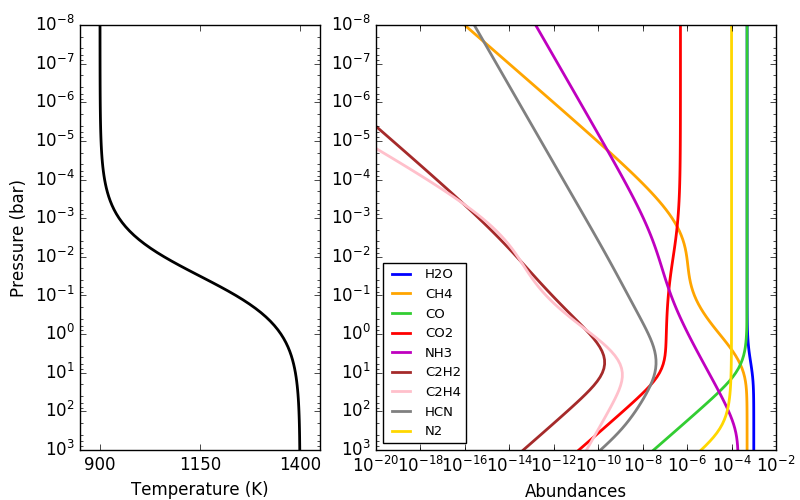
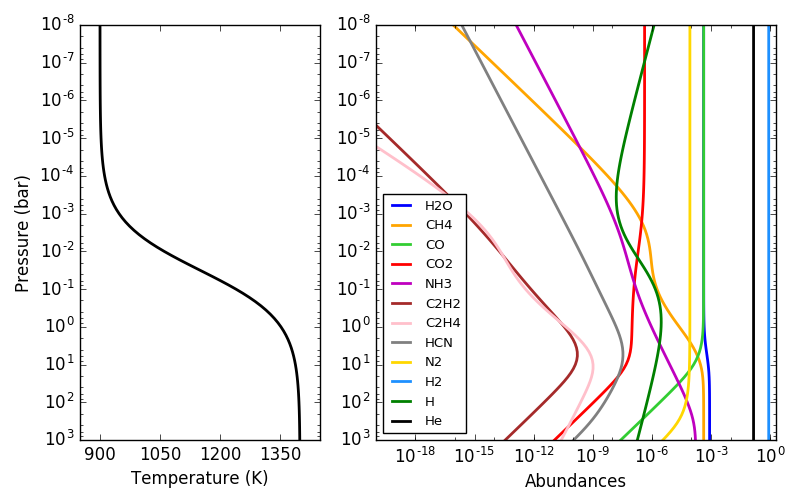
Updated README docs.

diff --git a/README.md b/README.md
@@ -1,7 +1,7 @@
 # rate
 Reliable Analytic Thermochemical Equilibrium
 
-This code computes thermochemical-equilibrium abundances for a H-C-N-O system with known pressure, temperature, and elemental abundances.  The output abundances are H2O, CH4, CO, CO2, NH3, C2H2, C2H4, HCN, and N2.
+This code computes thermochemical-equilibrium abundances for a H-C-N-O system with known pressure, temperature, and elemental abundances.  The output abundances are H2O, CH4, CO, CO2, NH3, C2H2, C2H4, HCN, and N2, H2, H, and He.
 
 These calculations are valid over:
 * pressures from 10<sup>-8</sup> to 10<sup>3</sup> bar,
@@ -40,19 +40,21 @@ import matplotlib.pyplot as plt
 import rate
 
 # Initialize object with solar composition:
-r = rate.Rate(C=2.5e-4, N=1.0e-4, O=5.0e-4)
+r = rate.Rate(C=2.5e-4, N=1.0e-4, O=5.0e-4, fHe=0.0851)
 
 # Define atmospheric profile:
 nlayers = 100
 press = np.logspace(-8, 3, nlayers)  # bars
-temp = np.tile(1400.0, nlayers)      # kelvin
+temp1 = np.tile(1400.0, nlayers)     # kelvin
 
 # Compute abundances:
-Q1 = r.solve(temp, press)
+Q1 = r.solve(temp1, press)
 
 # See results:
-label = "H2O", "CH4",  "CO",     "CO2", "NH3", "C2H2", "C2H4", "HCN", "N2"
-col   = "b", "orange", "limegreen", "r", "m", "brown", "pink", "0.5", "gold"
+label = ["H2O",  "CH4",    "CO",        "CO2",        "NH3", "C2H2",
+         "C2H4", "HCN",    "N2",        "H2",         "H",   "He"]
+col   = ["b",    "orange", "limegreen", "r",          "m",   "brown",
+         "pink", "0.5",    "gold",      "dodgerblue", "g",   "k"]
 
 plt.figure(-1, (8,5))
 plt.clf()
@@ -60,9 +62,10 @@ for i in np.arange(len(Q1)):
   plt.loglog(Q1[i], press, lw=2, c=col[i], label=label[i])
 plt.ylim(np.amax(press), np.amin(press))
 plt.legend(loc="lower left", fontsize=9.5)
-plt.xlim(1e-25, 1e-2)
+plt.xlim(1e-25, 2)
 plt.xlabel("Abundances")
 plt.ylabel("Pressure (bar)")
+plt.xticks(np.logspace(-24, 0, 7))
 ```
 <dl >
   <img src="docs/started_q1.png"   width="600">
@@ -70,22 +73,24 @@ plt.ylabel("Pressure (bar)")
 
 ```python
 # A 'more interesting' temperature profile:
-temp = 900+500/(1+np.exp(-(np.log10(press)+1.5)*1.5))
-Q2 = r.solve(temp, press)
+temp2 = 900+500/(1+np.exp(-(np.log10(press)+1.5)*1.5))
+Q2 = r.solve(temp2, press)
 
 plt.figure(-2, (8,5))
 plt.clf()
-ax = plt.axes([0.1, 0.1, 0.3, 0.85])
-plt.semilogy(temp, press, lw=2, color="k")
+ax = plt.axes([0.1, 0.12, 0.3, 0.83])
+plt.semilogy(temp2, press, lw=2, color="k")
 plt.ylim(np.amax(press), np.amin(press))
 plt.xlim(850, 1450)
+ax.set_xticks([900, 1050, 1200, 1350])
 plt.ylabel("Pressure (bar)")
 plt.xlabel("Temperature (K)")
-ax = plt.axes([0.47, 0.1, 0.5, 0.85])
+ax = plt.axes([0.47, 0.12, 0.5, 0.83])
 for i in np.arange(len(Q2)):
   plt.loglog(Q2[i], press, lw=2, c=col[i], label=label[i])
 plt.ylim(np.amax(press), np.amin(press))
-plt.xlim(1e-20, 1e-2)
+plt.xlim(1e-20, 2)
+plt.xticks(np.logspace(-18, 0, 7))
 plt.legend(loc="lower left", fontsize=9.5)
 plt.xlabel("Abundances")
 ```
@@ -95,14 +100,14 @@ plt.xlabel("Abundances")
 
 ```python
 # A carbon-dominated atmosphere, same temperature as before:
-Q3 = r.solve(temp, press, C=1e-3)
+Q3 = r.solve(temp2, press, C=1e-3)
 plt.figure(-3, (8,5))
 plt.clf()
 for i in np.arange(len(Q3)):
   plt.loglog(Q3[i], press, lw=2, c=col[i], label=label[i])
 plt.ylim(np.amax(press), np.amin(press))
 plt.legend(loc="lower left", fontsize=9.5)
-plt.xlim(1e-18, 1e-2)
+plt.xlim(1e-18, 2)
 plt.xlabel("Abundances")
 plt.ylabel("Pressure (bar)")
 ```
